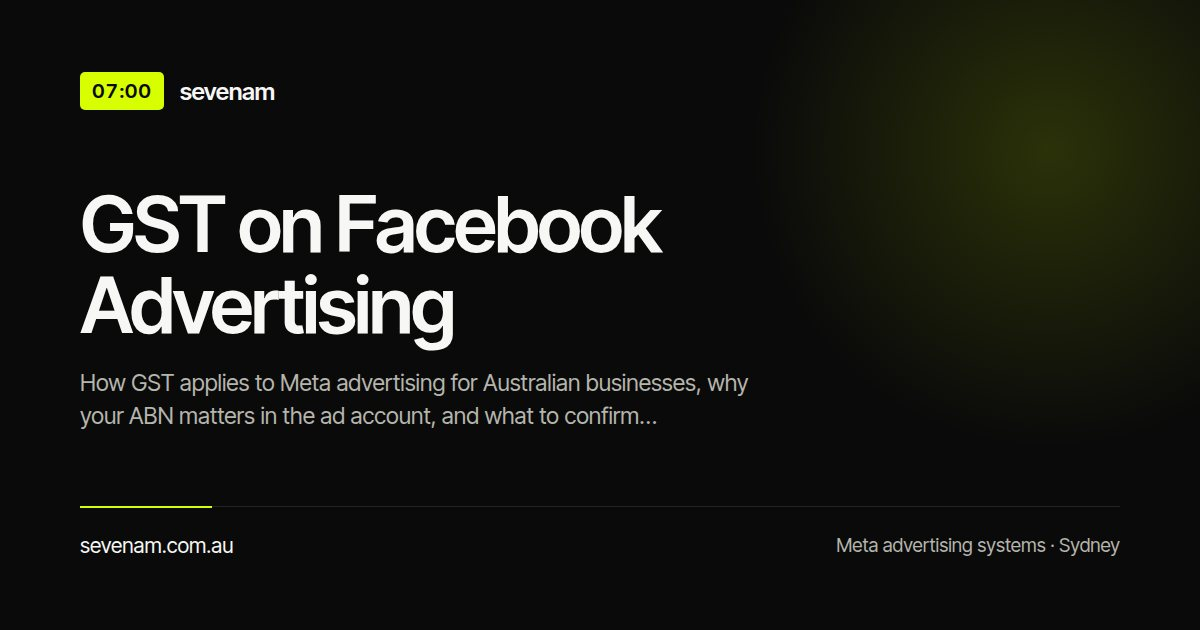
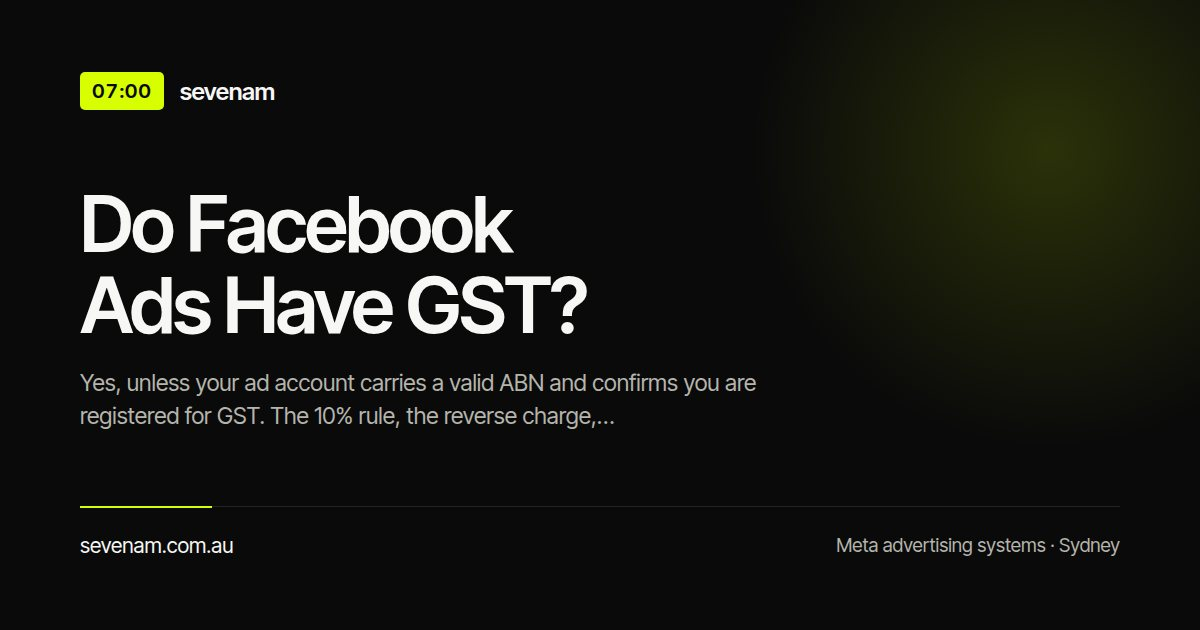
Make the GST guide answer the question it is asked
Search Console shows "do facebook ads have gst" is the site's best
non-brand query — 8 impressions, 1 click, 12.5% CTR, and the only
non-brand click so far. The page serving it never answered. It said
"it depends", "confirm with your accountant", and did not contain the
number 10 anywhere. Nothing cites a page that declines to answer, and
nothing ranks for a question it does not respond to.

Retargeted to the question form in the title and h1, and rewritten to
give the answer first: Meta charges 10% GST to Australian customers
with no valid ABN and confirmed GST registration; supply both and the
reverse charge moves the obligation to the buyer, who self-assesses at
10% and claims the credit where the spend is creditable — commonly net
zero. Includes the penalty for quoting an ABN while unregistered.

The accountant disclaimer stays, but after the answer rather than
instead of it, and the page now says plainly that it is a reading of
the ATO's published guidance rather than advice. Sourced from the ATO
guidance on GST for imported services and digital products; ato.gov.au
and facebook.com are both blocked by this environment's egress proxy,
so those were read through search rather than fetched directly.

The slug is unchanged on purpose: the URL already draws impressions and
moving it would trade a ranking page for a redirect.

Generated page, so the edit is in tools/content/guides.js and rebuilt.
og card regenerated for the new headline. check.js passes at 65 pages,
[…]

Changed region(s): [[0.0617, 0.3016, 0.555, 0.573], [0.0617, 0.573, 0.6475, 0.6937]]

diff --git a/gst-on-facebook-advertising.html b/gst-on-facebook-advertising.html
@@ -3,18 +3,18 @@
 <head>
 <meta charset="utf-8">
 <meta name="viewport" content="width=device-width, initial-scale=1">
-<title>GST on Facebook Advertising in Australia — What to Check | Sevenam</title>
-<meta name="description" content="How GST applies to Meta advertising for Australian businesses, why your ABN matters in the ad account, and what to confirm with your accountant.">
+<title>Do Facebook Ads Have GST in Australia? | Sevenam</title>
+<meta name="description" content="Yes, unless your ad account carries a valid ABN and confirms you are registered for GST. The 10% rule, the reverse charge, and what to check in payment settings.">
 <link rel="canonical" href="https://sevenam.com.au/gst-on-facebook-advertising">
-<meta property="og:title" content="GST on Facebook Advertising in Australia — What to Check | Sevenam">
-<meta property="og:description" content="How GST applies to Meta advertising for Australian businesses, why your ABN matters in the ad account, and what to confirm with your accountant.">
+<meta property="og:title" content="Do Facebook Ads Have GST in Australia? | Sevenam">
+<meta property="og:description" content="Yes, unless your ad account carries a valid ABN and confirms you are registered for GST. The 10% rule, the reverse charge, and what to check in payment settings.">
 <meta property="og:type" content="website">
 <meta property="og:url" content="https://sevenam.com.au/gst-on-facebook-advertising">
 <meta property="og:site_name" content="Sevenam">
 <meta property="og:image" content="https://sevenam.com.au/og/gst-on-facebook-advertising.jpg">
 <meta property="og:image:width" content="1200">
 <meta property="og:image:height" content="630">
-<meta property="og:image:alt" content="GST on Facebook Advertising — Sevenam">
+<meta property="og:image:alt" content="Do Facebook Ads Have GST? — Sevenam">
 <meta name="twitter:card" content="summary_large_image">
 <link rel="icon" href="/img/favicon.svg" type="image/svg+xml">
 <link rel="icon" href="/img/favicon-32.png" sizes="32x32" type="image/png">
@@ -22,7 +22,7 @@
 <link rel="manifest" href="/site.webmanifest">
 <meta name="theme-color" content="#0A0A0A">
 <meta name="robots" content="index,follow,max-image-preview:large">
-<script type="application/ld+json">{"@context":"https://schema.org","@graph":[{"@type":"Organization","@id":"https://sevenam.com.au/#org","name":"Sevenam","url":"https://sevenam.com.au","description":"Sevenam is a growth systems and technology company that installs Meta advertising systems on businesses' own ad accounts and runs the technology that operates them.","founder":{"@type":"Person","name":"Josh Peacock","jobTitle":"Founder","sameAs":["https://www.linkedin.com/in/josh-peacock-b36b6b20/"]},"areaServed":"AU","address":{"@type":"PostalAddress","addressLocality":"Sydney","addressRegion":"NSW","addressCountry":"AU"}},{"@type":"WebPage","url":"https://sevenam.com.au/gst-on-facebook-advertising","name":"GST on Facebook Advertising in Australia — What to Check | Sevenam","description":"How GST applies to Meta advertising for Australian businesses, why your ABN matters in the ad account, and what to confirm with your accountant.","isPartOf":{"@id":"https://sevenam.com.au/#org"}},{"@type":"Article","headline":"GST on Facebook Advertising","description":"How GST applies to Meta advertising for Australian businesses, why your ABN matters in the ad account, and what to confirm with your accountant.","author":{"@id":"https://sevenam.com.au/#org"},"publisher":{"@id":"https://sevenam.com.au/#org"},"mainEntityOfPage":"https://sevenam.com.au/gst-on-facebook-advertising","url":"https://sevenam.com.au/gst-on-facebook-advertising"},{"@type":"FAQPage","mainEntity":[{"@type":"Question","name":"Is GST charged on Facebook ads in Australia?","acceptedAnswer":{"@type":"Answer","text":"It depends on how your account is set up and how Meta bills your business, and it has changed over time. Rather than take a general answer, look at your own recent invoices — they will show you what is actually being charged — and confirm the treatment with your accountant."}},{"@type":"Question","name":"Where do I add my ABN?","acceptedAnswer":{"@type":"Answer","text":"In the ad account's payment settings, alongside the business details. If your account was set up quickly, there is a fair chance nobody ever filled it in."}},{"@type":"Question","name":"Can we claim GST credits on advertising?","acceptedAnswer":{"@type":"Answer","text":"Where GST has been correctly charged on a business expense and you are registered, that is ordinarily the sort of thing you would discuss with your accountant. Keep the tax invoices from the billing section as substantiation."}},{"@type":"Question","name":"Does this apply to Instagram ads too?","acceptedAnswer":{"@type":"Answer","text":"Instagram advertising is billed through the same Meta ad account, so it is the same invoice and the same settings."}},{"@type":"Question","name":"Do you handle any of this for us?","acceptedAnswer":{"@type":"Answer","text":"We will flag it during the setup if the account details look incomplete, because it is a common oversight. We do not give tax advice and would not pretend to."}}]},{"@type":"BreadcrumbList","itemListElement":[{"@type":"ListItem","position":1,"name":"Home","item":"https://sevenam.com.au/"},{"@type":"ListItem","position":2,"name":"Learn","item":"https://sevenam.com.au/learn"},{"@type":"ListItem","position":3,"name":"GST on Facebook Advertising","item":"https://sevenam.com.au/gst-on-facebook-advertising"}]}]}</script>
+<script type="application/ld+json">{"@context":"https://schema.org","@graph":[{"@type":"Organization","@id":"https://sevenam.com.au/#org","name":"Sevenam","url":"https://sevenam.com.au","description":"Sevenam is a growth systems and technology company that installs Meta advertising systems on businesses' own ad accounts and runs the technology that operates them.","founder":{"@type":"Person","name":"Josh Peacock","jobTitle":"Founder","sameAs":["https://www.linkedin.com/in/josh-peacock-b36b6b20/"]},"areaServed":"AU","address":{"@type":"PostalAddress","addressLocality":"Sydney","addressRegion":"NSW","addressCountry":"AU"}},{"@type":"WebPage","url":"https://sevenam.com.au/gst-on-facebook-advertising","name":"Do Facebook Ads Have GST in Australia? | Sevenam","description":"Yes, unless your ad account carries a valid ABN and confirms you are registered for GST. The 10% rule, the reverse charge, and what to check in payment settings.","isPartOf":{"@id":"https://sevenam.com.au/#org"}},{"@type":"Article","headline":"Do Facebook Ads Have GST?","description":"Yes, unless your ad account carries a valid ABN and confirms you are registered for GST. The 10% rule, the reverse charge, and what to check in payment settings.","author":{"@id":"https://sevenam.com.au/#org"},"publisher":{"@id":"https://sevenam.com.au/#org"},"mainEntityOfPage":"https://sevenam.com.au/gst-on-facebook-advertising","url":"https://sevenam.com.au/gst-on-facebook-advertising"},{"@type":"FAQPage","mainEntity":[{"@type":"Question","name":"Do Facebook ads have GST in Australia?","acceptedAnswer":{"@type":"Answer","text":"Usually yes. Meta charges 10% GST to Australian customers who have not supplied a valid ABN and confirmed GST registration on the ad account. Supply both and Meta should not charge GST, because the reverse charge rules move the obligation to you instead."}},{"@type":"Question","name":"What is the GST rate on Facebook advertising?","acceptedAnswer":{"@type":"Answer","text":"Ten per cent, the standard Australian GST rate. It applies to the advertising spend itself, so a $1,000 media bill becomes $1,100 where GST is charged."}},{"@type":"Question","name":"What is the reverse charge, in plain terms?","acceptedAnswer":{"@type":"Answer","text":"Where an overseas supplier does not charge you GST on imported services, the law asks the buying business to work out whether GST is payable and account for it directly. You report the GST and, where the advertising is a creditable business expense, claim the credit back in the same period — commonly a net effect of zero."}},{"@type":"Question","name":"Where do I add my ABN?","acceptedAnswer":{"@type":"Answer","text":"In the ad account's payment settings in Ads Manager, alongside the business details. If the account was set up quickly there is a fair chance nobody ever filled it in."}},{"@type":"Question","name":"Can I quote an ABN if I am not registered for GST?","acceptedAnswer":{"@type":"Answer","text":"No. Having an ABN and being registered for GST are different things, and penalties can apply for telling a supplier you are registered when you are not. If you are unsure which applies to your business, confirm it before changing the setting."}},{"@type":"Question","name":"Does this cover Instagram ads too?","acceptedAnswer":{"@type":"Answer","text":"Yes. Instagram advertising is billed through the same Meta ad account, so it is the same invoice, the same ABN field and the same treatment."}},{"@type":"Question","name":"Is this tax advice?","acceptedAnswer":{"@type":"Answer","text":"No. It is a plain reading of the ATO's published guidance on GST for imported services and digital products, written so you know what to look for. Your circumstances decide the answer, so confirm the treatment with your accountant before acting on it."}}]},{"@type":"BreadcrumbList","itemListElement":[{"@type":"ListItem","position":1,"name":"Home","item":"https://sevenam.com.au/"},{"@type":"ListItem","position":2,"name":"Learn","item":"https://sevenam.com.au/learn"},{"@type":"ListItem","position":3,"name":"Do Facebook Ads Have GST?","item":"https://sevenam.com.au/gst-on-facebook-advertising"}]}]}</script>
 <link rel="preconnect" href="https://fonts.googleapis.com">
 <link rel="preconnect" href="https://fonts.gstatic.com" crossorigin>
 <link href="https://fonts.googleapis.com/css2?family=Inter+Tight:wght@400;500;600;700&display=swap" rel="stylesheet">
@@ -125,8 +125,8 @@
   <section style="background: rgb(10, 10, 10); color: rgb(247, 247, 245); padding: 110px 32px 120px;">
     <div style="max-width: 1240px; margin: 0px auto;">
       <span style="font-size: 14px; font-weight: 600; letter-spacing: 0.08em; color: rgb(216, 255, 0);">GUIDE</span>
-      <h1 style="margin: 26px 0px 0px; max-width: 22ch; font-size: clamp(40px, 6vw, 84px); font-weight: 600; letter-spacing: -0.035em; line-height: 1.04; color: rgb(255, 255, 255); text-wrap: balance;">GST on Facebook Advertising</h1>
-      <p style="margin: 32px 0px 0px; max-width: 60ch; font-size: 21px; font-weight: 500; line-height: 1.5; letter-spacing: -0.01em; color: rgb(247, 247, 245);">Mostly it comes down to whether Meta knows you are a GST-registered business.</p>
+      <h1 style="margin: 26px 0px 0px; max-width: 22ch; font-size: clamp(40px, 6vw, 84px); font-weight: 600; letter-spacing: -0.035em; line-height: 1.04; color: rgb(255, 255, 255); text-wrap: balance;">Do Facebook Ads Have GST?</h1>
+      <p style="margin: 32px 0px 0px; max-width: 60ch; font-size: 21px; font-weight: 500; line-height: 1.5; letter-spacing: -0.01em; color: rgb(247, 247, 245);">In Australia, usually yes — unless your ad account tells Meta you are a GST-registered business.</p>
       <p style="margin: 24px 0px 0px; max-width: 64ch; font-size: 17px; line-height: 1.7; color: rgb(181, 181, 173);">Sevenam installs a Meta advertising system on your own ad account and runs the technology that operates it — written decisions at 7am every morning telling you exactly what to do that day. One fixed setup fee, a fixed monthly, priced to the work rather than your media budget.</p>
       <div style="display: flex; flex-wrap: wrap; gap: 12px; margin-top: 44px;">
         <a href="/apply" class="scp0" style="background: rgb(216, 255, 0); color: rgb(10, 10, 10); font-size: 16px; font-weight: 600; padding: 16px 26px; border-radius: 4px;">Get started</a>
@@ -138,28 +138,30 @@
 
   <section style="border-bottom: 1px solid rgb(227, 227, 221); padding: 112px 32px;">
     <div style="max-width: 1240px; margin: 0px auto;">
-      <h2 style="margin: 0px; max-width: 24ch; font-size: clamp(30px, 3.6vw, 50px); font-weight: 600; letter-spacing: -0.03em; line-height: 1.08;">Why your ABN is in the ad account settings.</h2>
-      <p style="margin: 28px 0px 0px; max-width: 62ch; font-size: 17px; line-height: 1.7; color: rgb(85, 85, 79);">Meta asks Australian advertisers for an ABN and whether the business is registered for GST, and that answer changes how your advertising is invoiced. Businesses that have not supplied those details are commonly treated as consumers for tax purposes, which can mean GST is charged in a way that is harder to reclaim.</p>
-      <p style="margin: 28px 0px 0px; max-width: 62ch; font-size: 17px; line-height: 1.7; color: rgb(85, 85, 79);">This is genuinely worth five minutes of somebody's attention, because it is set once and quietly affects every invoice afterwards. Check what is recorded in your ad account's payment settings and compare it against what your recent invoices actually show.</p>
+      <h2 style="margin: 0px; max-width: 24ch; font-size: clamp(30px, 3.6vw, 50px); font-weight: 600; letter-spacing: -0.03em; line-height: 1.08;">The short answer, and the condition attached to it.</h2>
+      <p style="margin: 28px 0px 0px; max-width: 62ch; font-size: 17px; line-height: 1.7; color: rgb(85, 85, 79);">Meta charges GST at 10% on advertising bought by Australian customers who have not supplied a valid ABN and confirmed they are registered for GST. Offshore suppliers of digital services have been required to register for Australian GST and charge it on sales to Australian consumers since 1 July 2017, and an account with no ABN against it is treated as a consumer.</p>
+      <p style="margin: 28px 0px 0px; max-width: 62ch; font-size: 17px; line-height: 1.7; color: rgb(85, 85, 79);">Supply a valid ABN and state that the business is registered for GST, and Meta should stop charging it. The obligation does not disappear — it moves to you. Under the reverse charge rules the purchasing business self-assesses whether GST is payable on imported services, at 10% of the amount paid, and claims the input tax credit where the advertising is a creditable business expense. For most advertisers that nets out to zero, which is the point of the mechanism.</p>
       <div style="margin-top: 36px; display: flex; flex-direction: column; max-width: 840px;">
-        <div style="border-top: 1px solid rgb(227, 227, 221); padding: 20px 0px; font-size: 17px; line-height: 1.6;">Your ABN and GST registration status sit in ad account payment settings.</div>
-        <div style="border-top: 1px solid rgb(227, 227, 221); padding: 20px 0px; font-size: 17px; line-height: 1.6;">They are frequently left blank when an account is set up in a hurry.</div>
-        <div style="border-top: 1px solid rgb(227, 227, 221); padding: 20px 0px; font-size: 17px; line-height: 1.6;">The setting affects how every subsequent invoice is issued.</div>
-        <div style="border-top: 1px solid rgb(227, 227, 221); border-bottom: 1px solid rgb(227, 227, 221); padding: 20px 0px; font-size: 17px; line-height: 1.6;">Meta invoices are downloadable from the billing section of the account.</div>
+        <div style="border-top: 1px solid rgb(227, 227, 221); padding: 20px 0px; font-size: 17px; line-height: 1.6;">No ABN recorded: Meta charges 10% GST on your advertising.</div>
+        <div style="border-top: 1px solid rgb(227, 227, 221); padding: 20px 0px; font-size: 17px; line-height: 1.6;">Valid ABN and GST registration confirmed: Meta should not charge it.</div>
+        <div style="border-top: 1px solid rgb(227, 227, 221); padding: 20px 0px; font-size: 17px; line-height: 1.6;">In that case the reverse charge applies and you account for it yourself.</div>
+        <div style="border-top: 1px solid rgb(227, 227, 221); padding: 20px 0px; font-size: 17px; line-height: 1.6;">Fully creditable advertising typically nets to zero on the BAS.</div>
+        <div style="border-top: 1px solid rgb(227, 227, 221); border-bottom: 1px solid rgb(227, 227, 221); padding: 20px 0px; font-size: 17px; line-height: 1.6;">Quoting an ABN while not registered for GST carries penalties.</div>
       </div>
     </div>
   </section>
 
   <section style="background: rgb(10, 10, 10); color: rgb(247, 247, 245); padding: 112px 32px;">
     <div style="max-width: 1240px; margin: 0px auto;">
-      <h2 style="margin: 0px; max-width: 24ch; font-size: clamp(30px, 3.6vw, 50px); font-weight: 600; letter-spacing: -0.03em; line-height: 1.08;">What to confirm, and with whom.</h2>
-      <p style="margin: 28px 0px 0px; max-width: 62ch; font-size: 17px; line-height: 1.7; color: rgb(181, 181, 173);">Tax treatment of digital services has changed more than once, and the entity that bills you can differ by product and by period. We are advertisers, not tax advisers, and the correct answer for your business depends on your registration status and how the invoices are actually issued.</p>
-      <p style="margin: 28px 0px 0px; max-width: 62ch; font-size: 17px; line-height: 1.7; color: rgb(181, 181, 173);">So the useful advice is procedural: pull your last three Meta invoices, check whether GST appears on them, check what ABN and GST status your account has recorded, and put both in front of your accountant. Whatever you conclude, keep the invoices — they are your substantiation either way.</p>
+      <h2 style="margin: 0px; max-width: 24ch; font-size: clamp(30px, 3.6vw, 50px); font-weight: 600; letter-spacing: -0.03em; line-height: 1.08;">What to check in your own account, today.</h2>
+      <p style="margin: 28px 0px 0px; max-width: 62ch; font-size: 17px; line-height: 1.7; color: rgb(181, 181, 173);">This is set once and then quietly governs every invoice afterwards, which is why it is so often wrong. Accounts built in a hurry frequently have the ABN field blank, and nobody notices until an accountant asks why there is GST on advertising that should not have been charged it, or none on advertising that should.</p>
+      <p style="margin: 28px 0px 0px; max-width: 62ch; font-size: 17px; line-height: 1.7; color: rgb(181, 181, 173);">The check takes five minutes. Open payment settings in Ads Manager and read what is actually recorded against the account. Then pull the last three invoices from the billing section and see whether GST appears on them. If those two things disagree, that is the finding.</p>
       <div style="margin-top: 36px; display: flex; flex-direction: column; max-width: 840px;">
-        <div style="border-top: 1px solid rgb(35, 35, 32); padding: 20px 0px; font-size: 17px; line-height: 1.6;">Pull the last three invoices from the billing section.</div>
-        <div style="border-top: 1px solid rgb(35, 35, 32); padding: 20px 0px; font-size: 17px; line-height: 1.6;">Check whether GST is itemised on them and which entity issued them.</div>
-        <div style="border-top: 1px solid rgb(35, 35, 32); padding: 20px 0px; font-size: 17px; line-height: 1.6;">Check the ABN and GST status recorded in payment settings.</div>
-        <div style="border-top: 1px solid rgb(35, 35, 32); border-bottom: 1px solid rgb(35, 35, 32); padding: 20px 0px; font-size: 17px; line-height: 1.6;">Confirm the treatment with your accountant, not with a blog post.</div>
+        <div style="border-top: 1px solid rgb(35, 35, 32); padding: 20px 0px; font-size: 17px; line-height: 1.6;">Ads Manager → Payment settings: is there an ABN, and is GST registration confirmed?</div>
+        <div style="border-top: 1px solid rgb(35, 35, 32); padding: 20px 0px; font-size: 17px; line-height: 1.6;">Billing section: download the last three invoices.</div>
+        <div style="border-top: 1px solid rgb(35, 35, 32); padding: 20px 0px; font-size: 17px; line-height: 1.6;">Check whether GST is itemised on them, and which Meta entity issued them.</div>
+        <div style="border-top: 1px solid rgb(35, 35, 32); padding: 20px 0px; font-size: 17px; line-height: 1.6;">If the setting and the invoices disagree, take both to your accountant.</div>
+        <div style="border-top: 1px solid rgb(35, 35, 32); border-bottom: 1px solid rgb(35, 35, 32); padding: 20px 0px; font-size: 17px; line-height: 1.6;">Keep the invoices either way — they are your substantiation.</div>
       </div>
     </div>
   </section>
@@ -169,24 +171,32 @@
       <h2 style="margin: 0px 0px 40px; font-size: clamp(30px, 3.6vw, 50px); font-weight: 600; letter-spacing: -0.03em; line-height: 1.08;">Questions people actually ask.</h2>
       <div style="display: flex; flex-direction: column; max-width: 840px;">
         <div style="border-top: 1px solid rgb(227, 227, 221); padding: 26px 0px;">
-          <h3 style="margin: 0px 0px 12px; font-size: 20px; font-weight: 600; letter-spacing: -0.02em;">Is GST charged on Facebook ads in Australia?</h3>
-          <p style="margin: 0px; max-width: 64ch; font-size: 17px; line-height: 1.7; color: rgb(85, 85, 79);">It depends on how your account is set up and how Meta bills your business, and it has changed over time. Rather than take a general answer, look at your own recent invoices — they will show you what is actually being charged — and confirm the treatment with your accountant.</p>
+          <h3 style="margin: 0px 0px 12px; font-size: 20px; font-weight: 600; letter-spacing: -0.02em;">Do Facebook ads have GST in Australia?</h3>
+          <p style="margin: 0px; max-width: 64ch; font-size: 17px; line-height: 1.7; color: rgb(85, 85, 79);">Usually yes. Meta charges 10% GST to Australian customers who have not supplied a valid ABN and confirmed GST registration on the ad account. Supply both and Meta should not charge GST, because the reverse charge rules move the obligation to you instead.</p>
+        </div>
+        <div style="border-top: 1px solid rgb(227, 227, 221); padding: 26px 0px;">
+          <h3 style="margin: 0px 0px 12px; font-size: 20px; font-weight: 600; letter-spacing: -0.02em;">What is the GST rate on Facebook advertising?</h3>
+          <p style="margin: 0px; max-width: 64ch; font-size: 17px; line-height: 1.7; color: rgb(85, 85, 79);">Ten per cent, the standard Australian GST rate. It applies to the advertising spend itself, so a $1,000 media bill becomes $1,100 where GST is charged.</p>
+        </div>
+        <div style="border-top: 1px solid rgb(227, 227, 221); padding: 26px 0px;">
+          <h3 style="margin: 0px 0px 12px; font-size: 20px; font-weight: 600; letter-spacing: -0.02em;">What is the reverse charge, in plain terms?</h3>
+          <p style="margin: 0px; max-width: 64ch; font-size: 17px; line-height: 1.7; color: rgb(85, 85, 79);">Where an overseas supplier does not charge you GST on imported services, the law asks the buying business to work out whether GST is payable and account for it directly. You report the GST and, where the advertising is a creditable business expense, claim the credit back in the same period — commonly a net effect of zero.</p>
         </div>
         <div style="border-top: 1px solid rgb(227, 227, 221); padding: 26px 0px;">
           <h3 style="margin: 0px 0px 12px; font-size: 20px; font-weight: 600; letter-spacing: -0.02em;">Where do I add my ABN?</h3>
-          <p style="margin: 0px; max-width: 64ch; font-size: 17px; line-height: 1.7; color: rgb(85, 85, 79);">In the ad account's payment settings, alongside the business details. If your account was set up quickly, there is a fair chance nobody ever filled it in.</p>
+          <p style="margin: 0px; max-width: 64ch; font-size: 17px; line-height: 1.7; color: rgb(85, 85, 79);">In the ad account's payment settings in Ads Manager, alongside the business details. If the account was set up quickly there is a fair chance nobody ever filled it in.</p>
         </div>
         <div style="border-top: 1px solid rgb(227, 227, 221); padding: 26px 0px;">
-          <h3 style="margin: 0px 0px 12px; font-size: 20px; font-weight: 600; letter-spacing: -0.02em;">Can we claim GST credits on advertising?</h3>
-          <p style="margin: 0px; max-width: 64ch; font-size: 17px; line-height: 1.7; color: rgb(85, 85, 79);">Where GST has been correctly charged on a business expense and you are registered, that is ordinarily the sort of thing you would discuss with your accountant. Keep the tax invoices from the billing section as substantiation.</p>
+          <h3 style="margin: 0px 0px 12px; font-size: 20px; font-weight: 600; letter-spacing: -0.02em;">Can I quote an ABN if I am not registered for GST?</h3>
+          <p style="margin: 0px; max-width: 64ch; font-size: 17px; line-height: 1.7; color: rgb(85, 85, 79);">No. Having an ABN and being registered for GST are different things, and penalties can apply for telling a supplier you are registered when you are not. If you are unsure which applies to your business, confirm it before changing the setting.</p>
         </div>
         <div style="border-top: 1px solid rgb(227, 227, 221); padding: 26px 0px;">
-          <h3 style="margin: 0px 0px 12px; font-size: 20px; font-weight: 600; letter-spacing: -0.02em;">Does this apply to Instagram ads too?</h3>
-          <p style="margin: 0px; max-width: 64ch; font-size: 17px; line-height: 1.7; color: rgb(85, 85, 79);">Instagram advertising is billed through the same Meta ad account, so it is the same invoice and the same settings.</p>
+          <h3 style="margin: 0px 0px 12px; font-size: 20px; font-weight: 600; letter-spacing: -0.02em;">Does this cover Instagram ads too?</h3>
+          <p style="margin: 0px; max-width: 64ch; font-size: 17px; line-height: 1.7; color: rgb(85, 85, 79);">Yes. Instagram advertising is billed through the same Meta ad account, so it is the same invoice, the same ABN field and the same treatment.</p>
         </div>
         <div style="border-top: 1px solid rgb(227, 227, 221); padding: 26px 0px;">
-          <h3 style="margin: 0px 0px 12px; font-size: 20px; font-weight: 600; letter-spacing: -0.02em;">Do you handle any of this for us?</h3>
-          <p style="margin: 0px; max-width: 64ch; font-size: 17px; line-height: 1.7; color: rgb(85, 85, 79);">We will flag it during the setup if the account details look incomplete, because it is a common oversight. We do not give tax advice and would not pretend to.</p>
+          <h3 style="margin: 0px 0px 12px; font-size: 20px; font-weight: 600; letter-spacing: -0.02em;">Is this tax advice?</h3>
+          <p style="margin: 0px; max-width: 64ch; font-size: 17px; line-height: 1.7; color: rgb(85, 85, 79);">No. It is a plain reading of the ATO's published guidance on GST for imported services and digital products, written so you know what to look for. Your circumstances decide the answer, so confirm the treatment with your accountant before acting on it.</p>
         </div>
       </div>
     </div>

diff --git a/tools/content/guides.js b/tools/content/guides.js
@@ -281,44 +281,48 @@ const PAGES = [
   },
   {
     slug: 'gst-on-facebook-advertising',
-    title: 'GST on Facebook Advertising in Australia — What to Check | Sevenam',
-    description: 'How GST applies to Meta advertising for Australian businesses, why your ABN matters in the ad account, and what to confirm with your accountant.',
-    eyebrow: 'GUIDE', h1: 'GST on Facebook Advertising',
-    lead: 'Mostly it comes down to whether Meta knows you are a GST-registered business.',
+    title: 'Do Facebook Ads Have GST in Australia? | Sevenam',
+    description: 'Yes, unless your ad account carries a valid ABN and confirms you are registered for GST. The 10% rule, the reverse charge, and what to check in payment settings.',
+    eyebrow: 'GUIDE', h1: 'Do Facebook Ads Have GST?',
+    lead: 'In Australia, usually yes \u2014 unless your ad account tells Meta you are a GST-registered business.',
     s1: {
-      h2: 'Why your ABN is in the ad account settings.',
+      h2: 'The short answer, and the condition attached to it.',
       paras: [
-        "Meta asks Australian advertisers for an ABN and whether the business is registered for GST, and that answer changes how your advertising is invoiced. Businesses that have not supplied those details are commonly treated as consumers for tax purposes, which can mean GST is charged in a way that is harder to reclaim.",
-        "This is genuinely worth five minutes of somebody's attention, because it is set once and quietly affects every invoice afterwards. Check what is recorded in your ad account's payment settings and compare it against what your recent invoices actually show.",
+        "Meta charges GST at 10% on advertising bought by Australian customers who have not supplied a valid ABN and confirmed they are registered for GST. Offshore suppliers of digital services have been required to register for Australian GST and charge it on sales to Australian consumers since 1 July 2017, and an account with no ABN against it is treated as a consumer.",
+        "Supply a valid ABN and state that the business is registered for GST, and Meta should stop charging it. The obligation does not disappear \u2014 it moves to you. Under the reverse charge rules the purchasing business self-assesses whether GST is payable on imported services, at 10% of the amount paid, and claims the input tax credit where the advertising is a creditable business expense. For most advertisers that nets out to zero, which is the point of the mechanism.",
       ],
       items: [
-        'Your ABN and GST registration status sit in ad account payment settings.',
-        'They are frequently left blank when an account is set up in a hurry.',
-        'The setting affects how every subsequent invoice is issued.',
-        'Meta invoices are downloadable from the billing section of the account.',
+        'No ABN recorded: Meta charges 10% GST on your advertising.',
+        'Valid ABN and GST registration confirmed: Meta should not charge it.',
+        'In that case the reverse charge applies and you account for it yourself.',
+        'Fully creditable advertising typically nets to zero on the BAS.',
+        'Quoting an ABN while not registered for GST carries penalties.',
       ],
     },
     s2: {
-      h2: 'What to confirm, and with whom.',
+      h2: 'What to check in your own account, today.',
       paras: [
-        "Tax treatment of digital services has changed more than once, and the entity that bills you can differ by product and by period. We are advertisers, not tax advisers, and the correct answer for your business depends on your registration status and how the invoices are actually issued.",
-        "So the useful advice is procedural: pull your last three Meta invoices, check whether GST appears on them, check what ABN and GST status your account has recorded, and put both in front of your accountant. Whatever you conclude, keep the invoices — they are your substantiation either way.",
+        "This is set once and then quietly governs every invoice afterwards, which is why it is so often wrong. Accounts built in a hurry frequently have the ABN field blank, and nobody notices until an accountant asks why there is GST on advertising that should not have been charged it, or none on advertising that should.",
+        "The check takes five minutes. Open payment settings in Ads Manager and read what is actually recorded against the account. Then pull the last three invoices from the billing section and see whether GST appears on them. If those two things disagree, that is the finding.",
       ],
       items: [
-        'Pull the last three invoices from the billing section.',
-        'Check whether GST is itemised on them and which entity issued them.',
-        'Check the ABN and GST status recorded in payment settings.',
-        'Confirm the treatment with your accountant, not with a blog post.',
+        'Ads Manager \u2192 Payment settings: is there an ABN, and is GST registration confirmed?',
+        'Billing section: download the last three invoices.',
+        'Check whether GST is itemised on them, and which Meta entity issued them.',
+        'If the setting and the invoices disagree, take both to your accountant.',
+        'Keep the invoices either way \u2014 they are your substantiation.',
       ],
     },
     faqs: [
-      { q: 'Is GST charged on Facebook ads in Australia?', a: "It depends on how your account is set up and how Meta bills your business, and it has changed over time. Rather than take a general answer, look at your own recent invoices — they will show you what is actually being charged — and confirm the treatment with your accountant." },
-      { q: 'Where do I add my ABN?', a: "In the ad account's payment settings, alongside the business details. If your account was set up quickly, there is a fair chance nobody ever filled it in." },
-      { q: 'Can we claim GST credits on advertising?', a: "Where GST has been correctly charged on a business expense and you are registered, that is ordinarily the sort of thing you would discuss with your accountant. Keep the tax invoices from the billing section as substantiation." },
-      { q: 'Does this apply to Instagram ads too?', a: "Instagram advertising is billed through the same Meta ad account, so it is the same invoice and the same settings." },
-      { q: 'Do you handle any of this for us?', a: "We will flag it during the setup if the account details look incomplete, because it is a common oversight. We do not give tax advice and would not pretend to." },
+      { q: 'Do Facebook ads have GST in Australia?', a: "Usually yes. Meta charges 10% GST to Australian customers who have not supplied a valid ABN and confirmed GST registration on the ad account. Supply both and Meta should not charge GST, because the reverse charge rules move the obligation to you instead." },
+      { q: 'What is the GST rate on Facebook advertising?', a: "Ten per cent, the standard Australian GST rate. It applies to the advertising spend itself, so a $1,000 media bill becomes $1,100 where GST is charged." },
+      { q: 'What is the reverse charge, in plain terms?', a: "Where an overseas supplier does not charge you GST on imported services, the law asks the buying business to work out whether GST is payable and account for it directly. You report the GST and, where the advertising is a creditable business expense, claim the credit back in the same period \u2014 commonly a net effect of zero." },
+      { q: 'Where do I add my ABN?', a: "In the ad account's payment settings in Ads Manager, alongside the business details. If the account was set up quickly there is a fair chance nobody ever filled it in." },
+      { q: 'Can I quote an ABN if I am not registered for GST?', a: "No. Having an ABN and being registered for GST are different things, and penalties can apply for telling a supplier you are registered when you are not. If you are unsure which applies to your business, confirm it before changing the setting." },
+      { q: 'Does this cover Instagram ads too?', a: "Yes. Instagram advertising is billed through the same Meta ad account, so it is the same invoice, the same ABN field and the same treatment." },
+      { q: 'Is this tax advice?', a: "No. It is a plain reading of the ATO's published guidance on GST for imported services and digital products, written so you know what to look for. Your circumstances decide the answer, so confirm the treatment with your accountant before acting on it." },
     ],
-    closing: { h2: 'Have the whole account checked, not just the tax settings.', p: "Five days, a written read on what the account is doing — including the details nobody filled in when it was set up." },
+    closing: { h2: 'Have the whole account checked, not just the tax settings.', p: "Five days, a written read on what the account is doing \u2014 including the details nobody filled in when it was set up." },
     related: [
       { href: '/facebook-ads-cost-australia', title: 'What ads cost', note: 'Media pricing explained.' },
       { href: '/check', title: 'Account check', note: 'Five days, a straight read.' },
